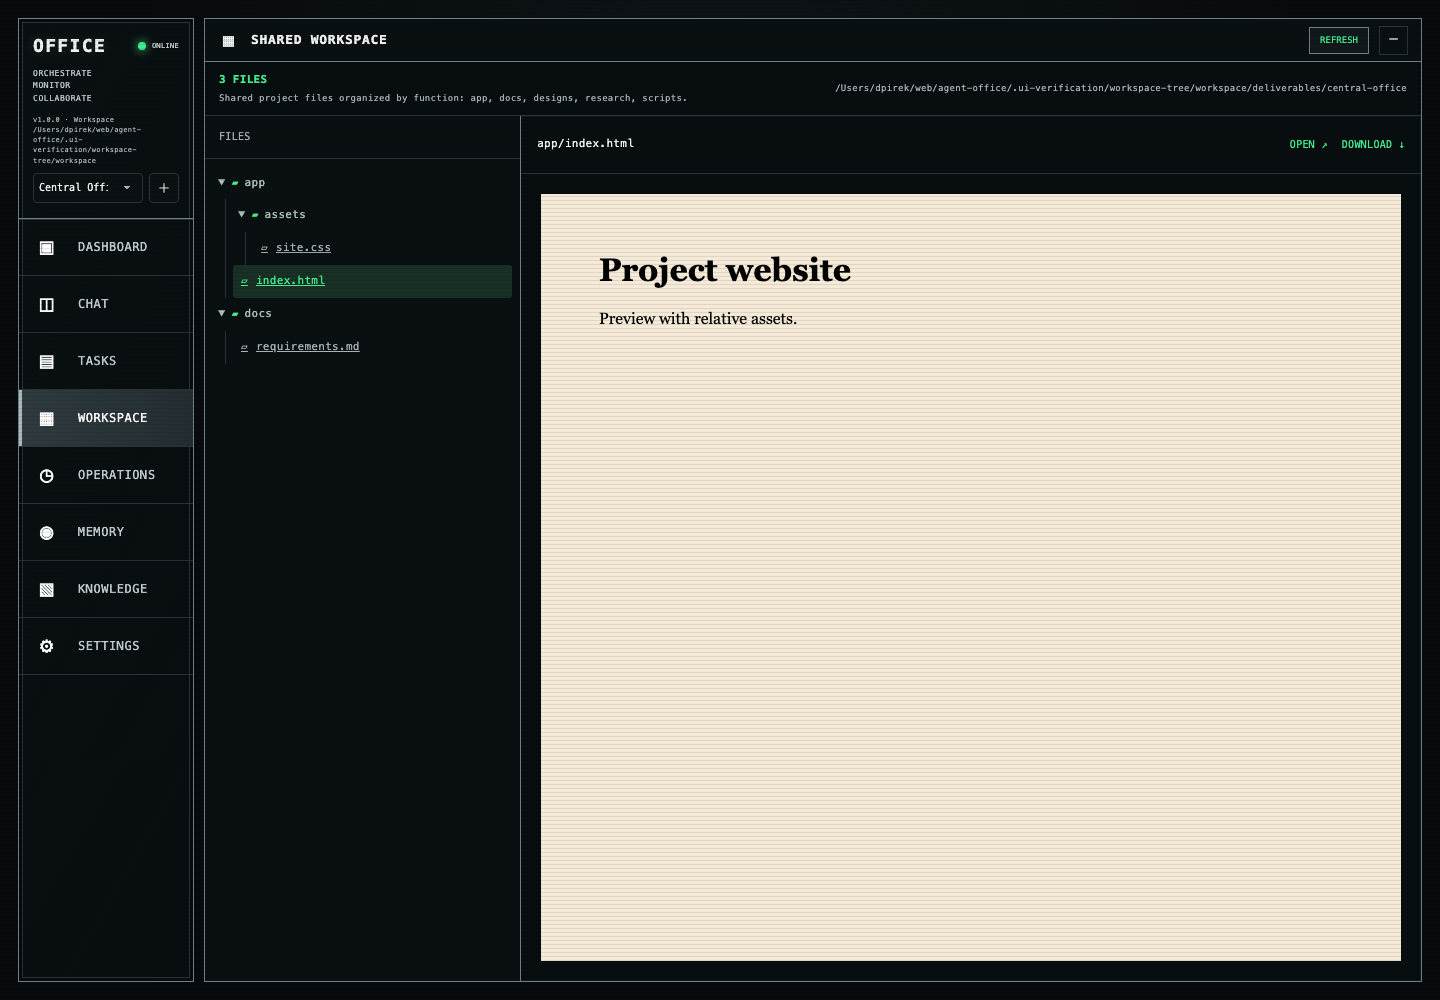
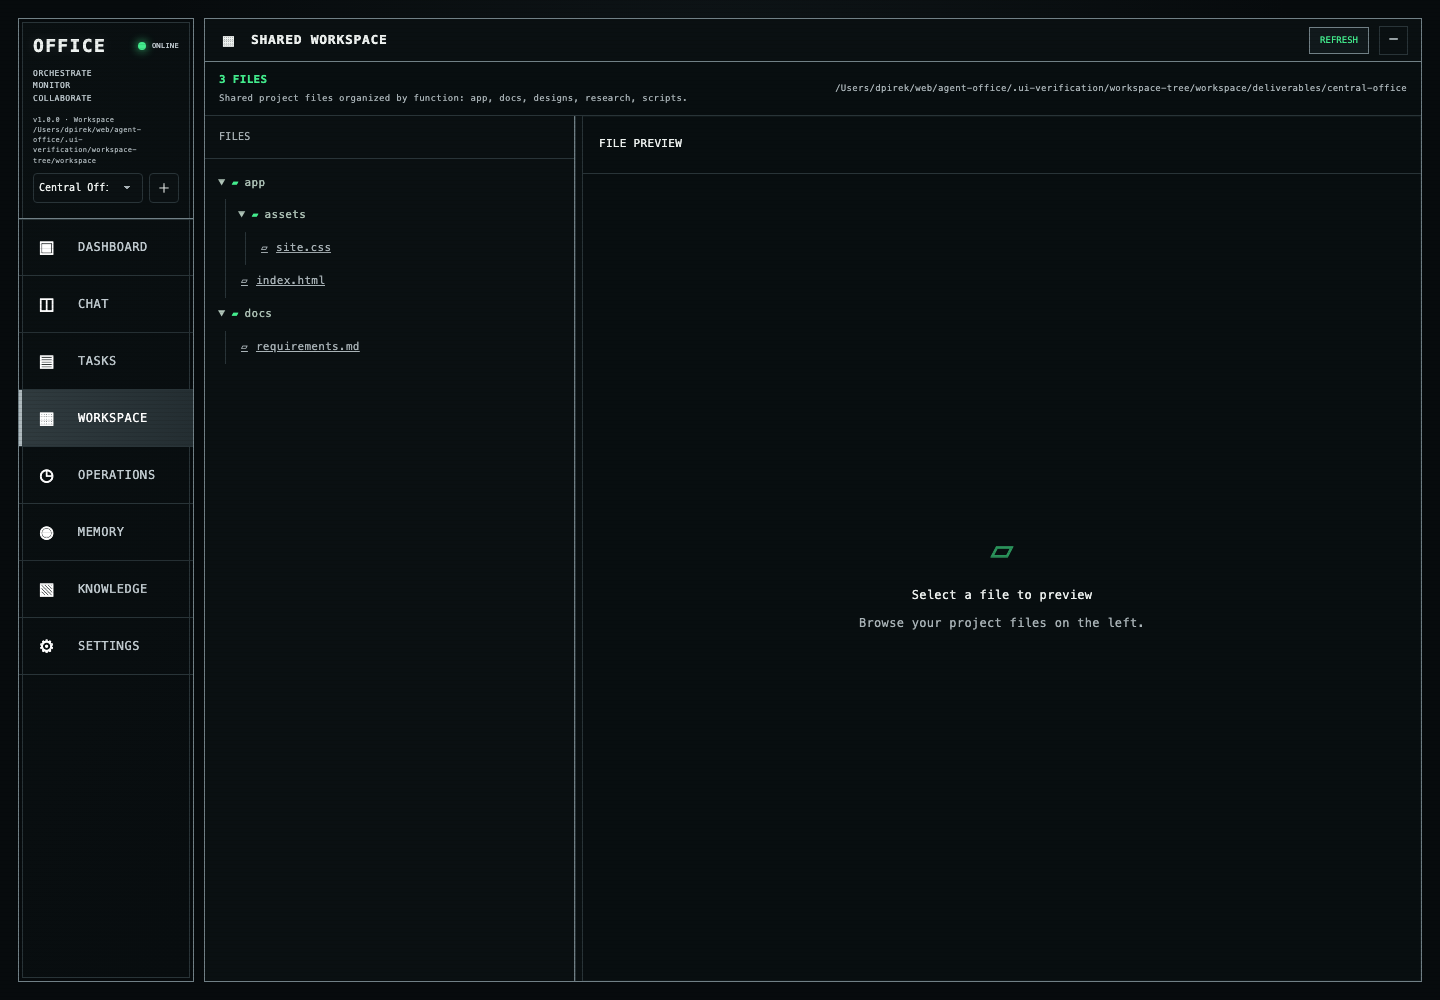
fixes

diff --git a/public/styles.css b/public/styles.css
@@ -394,7 +394,11 @@ body:not([data-page="tasks"]) #add-task-button, body:not([data-page="tasks"]) .t
 .shared-workspace-summary strong { color: var(--green); font-size: 11px; }
 .shared-workspace-summary span, .shared-workspace-summary code { color: var(--muted); font-size: 9px; }
 .shared-workspace-summary code { max-width: 55%; overflow: hidden; text-overflow: ellipsis; white-space: nowrap; }
-.workspace-explorer { flex: 1; min-height: 0; display: grid; grid-template-columns: minmax(200px, 26%) minmax(0, 1fr); overflow: hidden; }
+.workspace-explorer { flex: 1; min-height: 0; display: grid; grid-template-columns: var(--workspace-tree-width, 26%) 8px minmax(0, 1fr); overflow: hidden; }
+.workspace-tree-resizer { cursor: col-resize; touch-action: none; background: #0a1012; border-inline: 1px solid var(--line-dim); }
+.workspace-tree-resizer:hover, .workspace-tree-resizer:focus-visible, .is-resizing-workspace .workspace-tree-resizer { background: var(--green); outline: none; }
+.is-resizing-workspace { cursor: col-resize; user-select: none; }
+.is-resizing-workspace iframe { pointer-events: none; }
 .workspace-tree-pane { min-width: 0; min-height: 0; display: flex; flex-direction: column; border-right: 1px solid var(--line); background: #0a1012; }
 .workspace-tree-heading { padding: 14px; border-bottom: 1px solid var(--line-dim); color: var(--muted); font-size: 10px; }
 .shared-workspace-browser { flex: 1; min-height: 0; overflow: auto; padding: 8px; }
@@ -415,6 +419,7 @@ body:not([data-page="tasks"]) #add-task-button, body:not([data-page="tasks"]) .t
 .workspace-preview-empty > span { font-size: 38px; color: var(--green); opacity: .6; }
 .workspace-preview-empty strong { color: var(--text); font-weight: 400; }
 @media (max-width: 700px) {
+  .workspace-tree-resizer { display: none; }
   .workspace-explorer { grid-template-columns: minmax(0, 1fr); grid-template-rows: minmax(130px, 28vh) minmax(350px, 1fr); overflow: auto; }
   .workspace-tree-pane { border-right: 0; border-bottom: 1px solid var(--line); }
   .shared-workspace-summary code { display: none; }

diff --git a/public/index.html b/public/index.html
@@ -116,7 +116,8 @@
           <header class="panel-header"><div><span class="header-icon">▦</span><h2>SHARED WORKSPACE</h2></div><button class="header-action" id="refresh-workspace-button" type="button">REFRESH</button></header>
           <div class="shared-workspace-summary panel-body"><div><strong id="workspace-file-count">0 FILES</strong><span>Shared project files organized by function: app, docs, designs, research, scripts.</span></div><code id="shared-workspace-root">—</code></div>
           <div class="workspace-explorer panel-body">
-            <nav class="workspace-tree-pane" aria-label="Project files"><div class="workspace-tree-heading">FILES</div><div class="shared-workspace-browser" id="shared-workspace-browser"></div></nav>
+            <nav id="workspace-tree-pane" class="workspace-tree-pane" aria-label="Project files"><div class="workspace-tree-heading">FILES</div><div class="shared-workspace-browser" id="shared-workspace-browser"></div></nav>
+            <div id="workspace-tree-resizer" class="workspace-tree-resizer" role="separator" tabindex="0" aria-label="Resize file tree" aria-orientation="vertical" aria-controls="workspace-tree-pane" title="Drag to resize · Arrow keys to adjust · Double-click to reset"></div>
             <section class="workspace-preview" aria-labelledby="file-preview-title">
               <header class="workspace-preview-header"><h3 id="file-preview-title">FILE PREVIEW</h3><div class="file-preview-actions" id="file-preview-actions" hidden><a id="file-preview-open" target="_blank" rel="noopener noreferrer">OPEN ↗</a><a id="file-preview-download" download>DOWNLOAD ↓</a></div></header>
               <div class="file-preview-content" id="file-preview-content"><div class="workspace-preview-empty"><span aria-hidden="true">▱</span><strong>Select a file to preview</strong><p>Browse your project files on the left.</p></div></div>
